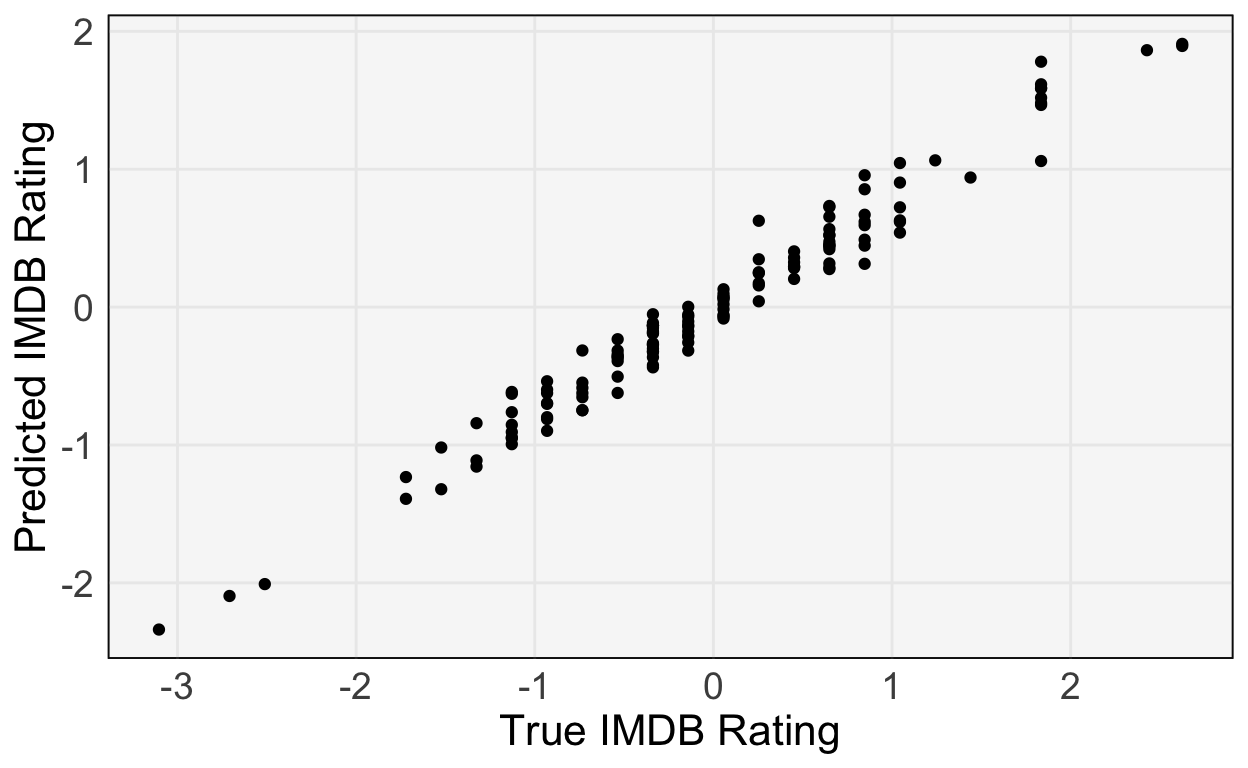
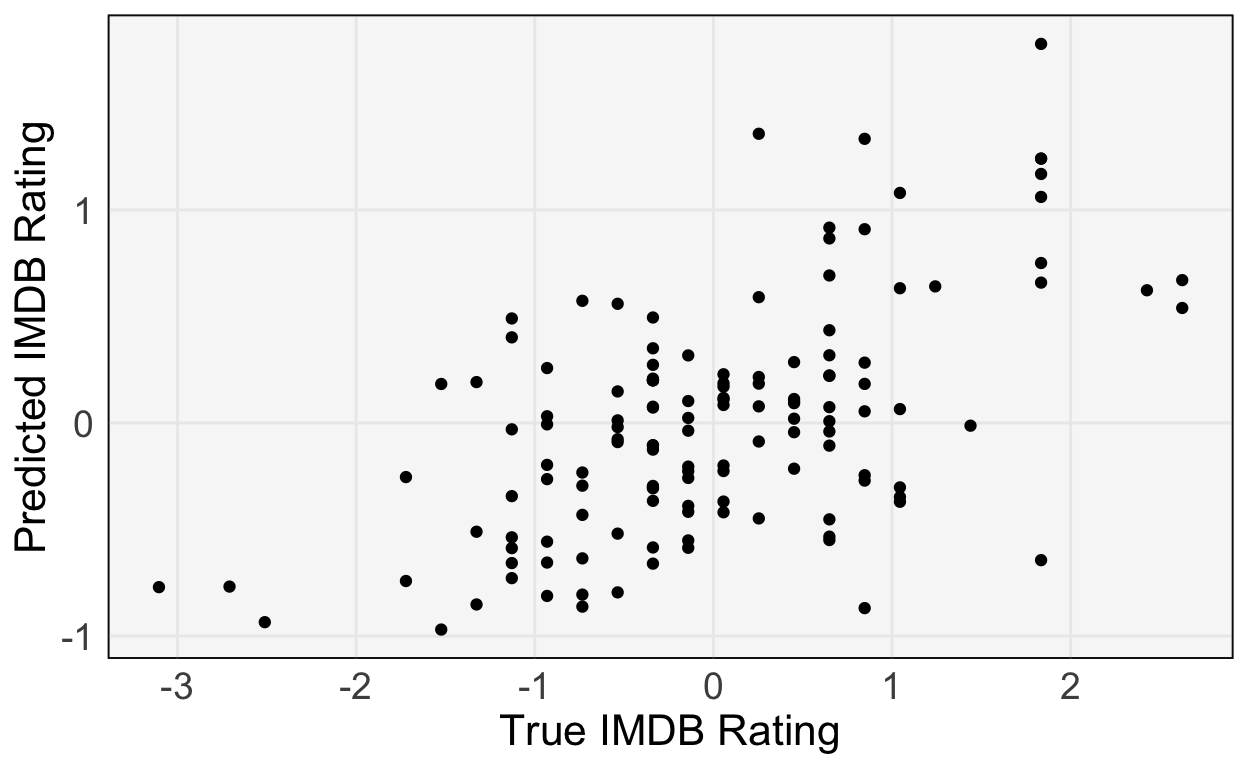
update build

diff --git a/docs/posts/welcome/index.html b/docs/posts/welcome/index.html
@@ -114,7 +114,7 @@ code span.wa { color: #5e5e5e; font-style: italic; } /* Warning */
 <!--/radix_placeholder_rmarkdown_metadata-->
   
   <script type="text/json" id="radix-resource-manifest">
-  {"type":"character","attributes":{},"value":["figures/class-1d.ai","figures/class-1d.png","figures/class-2d.ai","figures/class-2d.png","figures/curve-1d.ai","figures/curve-1d.png","figures/curve-2d.ai","figures/curve-2d.png","figures/decision-tree-stump-2d.ai","figures/decision-tree-stump-2d.png","figures/decision-tree-stump.ai","figures/decision-tree-stump.png","figures/decision-tree-traffic.ai","figures/decision-tree-traffic.png","figures/linear-1d-sparse.ai","figures/linear-1d-sparse.png","figures/linear-1d.ai","figures/linear-1d.png","figures/linear-2d.ai","figures/linear-2d.png","figures/logistic-2d-arrow.png","figures/logistic-2d-sparse.ai","figures/logistic-2d-sparse.png","figures/logistic-2d.ai","figures/logistic-2d.png","figures/logx.png","figures/lymphstatus.txt","figures/methods-relationships.ai","figures/methods-relationships.png","figures/need-to-rescale.ai","figures/penguin-features.png","welcome_files/anchor-4.2.2/anchor.min.js","welcome_files/bowser-1.9.3/bowser.min.js","welcome_files/distill-2.2.21/template.v2.js","welcome_files/figure-html5/unnamed-chunk-101-1.png","welcome_files/figure-html5/unnamed-chunk-106-1.png","welcome_files/figure-html5/unnamed-chunk-15-1.png","welcome_files/figure-html5/unnamed-chunk-17-1.png","welcome_files/figure-html5/unnamed-chunk-22-1.png","welcome_files/figure-html5/unnamed-chunk-27-1.png","welcome_files/figure-html5/unnamed-chunk-94-1.png","welcome_files/figure-html5/unnamed-chunk-96-1.png","welcome_files/header-attrs-2.8/header-attrs.js","welcome_files/jquery-1.11.3/jquery.min.js","welcome_files/popper-2.6.0/popper.min.js","welcome_files/tippy-6.2.7/tippy-bundle.umd.min.js","welcome_files/tippy-6.2.7/tippy-light-border.css","welcome_files/tippy-6.2.7/tippy.css","welcome_files/tippy-6.2.7/tippy.umd.min.js","welcome_files/webcomponents-2.0.0/webcomponents.js"]}
+  {"type":"character","attributes":{},"value":["figures/class-1d.ai","figures/class-1d.png","figures/class-2d.ai","figures/class-2d.png","figures/curve-1d.ai","figures/curve-1d.png","figures/curve-2d.ai","figures/curve-2d.png","figures/decision-tree-stump-2d.ai","figures/decision-tree-stump-2d.png","figures/decision-tree-stump.ai","figures/decision-tree-stump.png","figures/decision-tree-traffic.ai","figures/decision-tree-traffic.png","figures/linear-1d-sparse.ai","figures/linear-1d-sparse.png","figures/linear-1d.ai","figures/linear-1d.png","figures/linear-2d.ai","figures/linear-2d.png","figures/logistic-2d-arrow.png","figures/logistic-2d-sparse.ai","figures/logistic-2d-sparse.png","figures/logistic-2d.ai","figures/logistic-2d.png","figures/logx.png","figures/methods-relationships.ai","figures/methods-relationships.png","figures/need-to-rescale.ai","figures/penguin-features.png","welcome_files/anchor-4.2.2/anchor.min.js","welcome_files/bowser-1.9.3/bowser.min.js","welcome_files/distill-2.2.21/template.v2.js","welcome_files/figure-html5/unnamed-chunk-101-1.png","welcome_files/figure-html5/unnamed-chunk-106-1.png","welcome_files/figure-html5/unnamed-chunk-15-1.png","welcome_files/figure-html5/unnamed-chunk-17-1.png","welcome_files/figure-html5/unnamed-chunk-22-1.png","welcome_files/figure-html5/unnamed-chunk-27-1.png","welcome_files/figure-html5/unnamed-chunk-94-1.png","welcome_files/figure-html5/unnamed-chunk-96-1.png","welcome_files/header-attrs-2.8/header-attrs.js","welcome_files/jquery-1.11.3/jquery.min.js","welcome_files/popper-2.6.0/popper.min.js","welcome_files/tippy-6.2.7/tippy-bundle.umd.min.js","welcome_files/tippy-6.2.7/tippy-light-border.css","welcome_files/tippy-6.2.7/tippy.css","welcome_files/tippy-6.2.7/tippy.umd.min.js","welcome_files/webcomponents-2.0.0/webcomponents.js"]}
   </script>
   <!--radix_placeholder_navigation_in_header-->
 <meta name="distill:offset" content="../.."/>
@@ -2243,10 +2243,10 @@ f_{b}\left(x\right) = \frac{1}{1 + \text{exp}\left(x^{T}b\right)}
 <p>We’ll predict <code>species</code> using just <code>bill</code> length and depth. First, let’s make a plot to see how easy / difficult it will be to create a decision boundary.</p>
 <div class="layout-chunk" data-layout="l-body">
 <div class="sourceCode">
-<pre class="sourceCode r"><code class="sourceCode r"><span class='fu'>ggplot</span><span class='op'>(</span><span class='va'>py</span><span class='op'>$</span><span class='va'>penguins</span><span class='op'>)</span> <span class='op'>+</span>
-  <span class='fu'>geom_point</span><span class='op'>(</span><span class='fu'>aes</span><span class='op'>(</span><span class='va'>bill_length_mm</span>, <span class='va'>bill_depth_mm</span>, col <span class='op'>=</span> <span class='va'>species</span><span class='op'>)</span><span class='op'>)</span> <span class='op'>+</span>
-  <span class='fu'>scale_color_manual</span><span class='op'>(</span>values <span class='op'>=</span> <span class='fu'><a href='https://rdrr.io/r/base/c.html'>c</a></span><span class='op'>(</span><span class='st'>"#3DD9BC"</span>, <span class='st'>"#6DA671"</span>, <span class='st'>"#F285D5"</span><span class='op'>)</span><span class='op'>)</span> <span class='op'>+</span>
-  <span class='fu'>labs</span><span class='op'>(</span>x <span class='op'>=</span> <span class='st'>"Bill Length"</span>, y <span class='op'>=</span> <span class='st'>"Bill Depth"</span><span class='op'>)</span>
+<pre class="sourceCode r"><code class="sourceCode r"><span class='fu'><a href='https://ggplot2.tidyverse.org/reference/ggplot.html'>ggplot</a></span><span class='op'>(</span><span class='va'>py</span><span class='op'>$</span><span class='va'>penguins</span><span class='op'>)</span> <span class='op'>+</span>
+  <span class='fu'><a href='https://ggplot2.tidyverse.org/reference/geom_point.html'>geom_point</a></span><span class='op'>(</span><span class='fu'><a href='https://ggplot2.tidyverse.org/reference/aes.html'>aes</a></span><span class='op'>(</span><span class='va'>bill_length_mm</span>, <span class='va'>bill_depth_mm</span>, col <span class='op'>=</span> <span class='va'>species</span><span class='op'>)</span><span class='op'>)</span> <span class='op'>+</span>
+  <span class='fu'><a href='https://ggplot2.tidyverse.org/reference/scale_manual.html'>scale_color_manual</a></span><span class='op'>(</span>values <span class='op'>=</span> <span class='fu'><a href='https://rdrr.io/r/base/c.html'>c</a></span><span class='op'>(</span><span class='st'>"#3DD9BC"</span>, <span class='st'>"#6DA671"</span>, <span class='st'>"#F285D5"</span><span class='op'>)</span><span class='op'>)</span> <span class='op'>+</span>
+  <span class='fu'><a href='https://ggplot2.tidyverse.org/reference/labs.html'>labs</a></span><span class='op'>(</span>x <span class='op'>=</span> <span class='st'>"Bill Length"</span>, y <span class='op'>=</span> <span class='st'>"Bill Depth"</span><span class='op'>)</span>
 </code></pre>
 </div>
 <p><img src="welcome_files/figure-html5/unnamed-chunk-15-1.png" width="500" style="display: block; margin: auto;" /></p>
@@ -2265,11 +2265,11 @@ f_{b}\left(x\right) = \frac{1}{1 + \text{exp}\left(x^{T}b\right)}
 <p>The plot below compares the predicted class (left, middle, and right panels) with the true class (color). We get most of the samples correct, but have a few missclassifications near the boundaries.</p>
 <div class="layout-chunk" data-layout="l-body">
 <div class="sourceCode">
-<pre class="sourceCode r"><code class="sourceCode r"><span class='fu'>ggplot</span><span class='op'>(</span><span class='va'>py</span><span class='op'>$</span><span class='va'>penguins</span><span class='op'>)</span> <span class='op'>+</span>
-  <span class='fu'>geom_point</span><span class='op'>(</span><span class='fu'>aes</span><span class='op'>(</span><span class='va'>bill_length_mm</span>, <span class='va'>bill_depth_mm</span>, col <span class='op'>=</span> <span class='va'>species</span><span class='op'>)</span><span class='op'>)</span> <span class='op'>+</span>
-  <span class='fu'>scale_color_manual</span><span class='op'>(</span>values <span class='op'>=</span> <span class='fu'><a href='https://rdrr.io/r/base/c.html'>c</a></span><span class='op'>(</span><span class='st'>"#3DD9BC"</span>, <span class='st'>"#6DA671"</span>, <span class='st'>"#F285D5"</span><span class='op'>)</span><span class='op'>)</span> <span class='op'>+</span>
-  <span class='fu'>labs</span><span class='op'>(</span>x <span class='op'>=</span> <span class='st'>"Bill Length"</span>, y <span class='op'>=</span> <span class='st'>"Bill Depth"</span><span class='op'>)</span> <span class='op'>+</span>
-  <span class='fu'>facet_wrap</span><span class='op'>(</span><span class='op'>~</span> <span class='va'>y_hat</span><span class='op'>)</span>
+<pre class="sourceCode r"><code class="sourceCode r"><span class='fu'><a href='https://ggplot2.tidyverse.org/reference/ggplot.html'>ggplot</a></span><span class='op'>(</span><span class='va'>py</span><span class='op'>$</span><span class='va'>penguins</span><span class='op'>)</span> <span class='op'>+</span>
+  <span class='fu'><a href='https://ggplot2.tidyverse.org/reference/geom_point.html'>geom_point</a></span><span class='op'>(</span><span class='fu'><a href='https://ggplot2.tidyverse.org/reference/aes.html'>aes</a></span><span class='op'>(</span><span class='va'>bill_length_mm</span>, <span class='va'>bill_depth_mm</span>, col <span class='op'>=</span> <span class='va'>species</span><span class='op'>)</span><span class='op'>)</span> <span class='op'>+</span>
+  <span class='fu'><a href='https://ggplot2.tidyverse.org/reference/scale_manual.html'>scale_color_manual</a></span><span class='op'>(</span>values <span class='op'>=</span> <span class='fu'><a href='https://rdrr.io/r/base/c.html'>c</a></span><span class='op'>(</span><span class='st'>"#3DD9BC"</span>, <span class='st'>"#6DA671"</span>, <span class='st'>"#F285D5"</span><span class='op'>)</span><span class='op'>)</span> <span class='op'>+</span>
+  <span class='fu'><a href='https://ggplot2.tidyverse.org/reference/labs.html'>labs</a></span><span class='op'>(</span>x <span class='op'>=</span> <span class='st'>"Bill Length"</span>, y <span class='op'>=</span> <span class='st'>"Bill Depth"</span><span class='op'>)</span> <span class='op'>+</span>
+  <span class='fu'><a href='https://ggplot2.tidyverse.org/reference/facet_wrap.html'>facet_wrap</a></span><span class='op'>(</span><span class='op'>~</span> <span class='va'>y_hat</span><span class='op'>)</span>
 </code></pre>
 </div>
 <p><img src="welcome_files/figure-html5/unnamed-chunk-17-1.png" width="500" style="display: block; margin: auto;" /></p>
@@ -2304,7 +2304,7 @@ f_{b}\left(x\right) = b_0 + b_1 x_1 + \dots + b_{D}x_{D} := b^{T}x,
 4       1        6     0  ...              0               0          7.8
 
 [5 rows x 31 columns]</code></pre>
-<div class="sourceCode" id="cb16"><pre class="sourceCode python"><code class="sourceCode python"><span id="cb16-1"><a href="#cb16-1" aria-hidden="true" tabindex="-1"></a>X, y <span class="op">=</span> office.iloc[:, <span class="dv">2</span>:], office[<span class="st">&quot;imdb_rating&quot;</span>]</span>
+<div class="sourceCode" id="cb16"><pre class="sourceCode python"><code class="sourceCode python"><span id="cb16-1"><a href="#cb16-1" aria-hidden="true" tabindex="-1"></a>X, y <span class="op">=</span> office.iloc[:, <span class="dv">2</span>:<span class="op">-</span><span class="dv">1</span>], office[<span class="st">&quot;imdb_rating&quot;</span>]</span>
 <span id="cb16-2"><a href="#cb16-2" aria-hidden="true" tabindex="-1"></a>y <span class="op">=</span> (y <span class="op">-</span> y.mean()) <span class="op">/</span> y.std() <span class="co"># standardize</span></span></code></pre></div>
 </div>
 <p>The block below fits the Elastic Net model and saves the coefficients <span class="math inline">\(\hat{b}\)</span>. Notice that most of them are 0 – only a few of the actors make a big difference in the rating.</p>
@@ -2316,22 +2316,20 @@ f_{b}\left(x\right) = b_0 + b_1 x_1 + \dots + b_{D}x_{D} := b^{T}x,
 <span id="cb19-2"><a href="#cb19-2" aria-hidden="true" tabindex="-1"></a></span>
 <span id="cb19-3"><a href="#cb19-3" aria-hidden="true" tabindex="-1"></a>beta_hat <span class="op">=</span> model.coef_ <span class="co"># notice the sparsity</span></span>
 <span id="cb19-4"><a href="#cb19-4" aria-hidden="true" tabindex="-1"></a>beta_hat</span></code></pre></div>
-<pre><code>array([ 7.88211572e-05,  2.33206106e-03,  2.28877077e-03,  1.41079800e-03,
-        2.64640670e-03, -7.08191025e-03,  2.17721772e-03,  2.57112106e-03,
-        0.00000000e+00,  9.55794821e-04,  5.41469532e-03,  0.00000000e+00,
-        2.09338040e-03, -0.00000000e+00,  3.15581141e-03,  0.00000000e+00,
-        0.00000000e+00,  0.00000000e+00,  0.00000000e+00, -0.00000000e+00,
-        0.00000000e+00,  0.00000000e+00,  0.00000000e+00, -0.00000000e+00,
-       -0.00000000e+00, -0.00000000e+00,  0.00000000e+00,  0.00000000e+00,
-        1.34005056e+00])</code></pre>
+<pre><code>array([ 0.00116889,  0.00618263,  0.00820025,  0.0037306 ,  0.00846656,
+       -0.02521656,  0.00947178,  0.00793831,  0.00140553,  0.00312614,
+        0.01993542,  0.00238557,  0.00883436, -0.00194228,  0.01054646,
+        0.        ,  0.18606752,  0.        ,  0.        , -0.        ,
+        0.        ,  0.        ,  0.        , -0.        , -0.        ,
+       -0.        ,  0.        ,  0.        ])</code></pre>
 </div>
-<p>We can confirm that the training error is quite good, though we will discuss later how to guard against potential overfitting.</p>
+<p>We can confirm that the predictions are correlated relatively well with the truth.</p>
 <div class="layout-chunk" data-layout="l-body">
 <div class="sourceCode">
 <pre class="sourceCode r"><code class="sourceCode r"><span class='va'>office</span> <span class='op'>&lt;-</span> <span class='fu'><a href='https://rdrr.io/r/base/data.frame.html'>data.frame</a></span><span class='op'>(</span><span class='va'>py</span><span class='op'>$</span><span class='va'>X</span>, y <span class='op'>=</span> <span class='va'>py</span><span class='op'>$</span><span class='va'>y</span>, y_hat <span class='op'>=</span> <span class='va'>py</span><span class='op'>$</span><span class='va'>y_hat</span><span class='op'>)</span>
-<span class='fu'>ggplot</span><span class='op'>(</span><span class='va'>office</span><span class='op'>)</span> <span class='op'>+</span>
-  <span class='fu'>geom_point</span><span class='op'>(</span><span class='fu'>aes</span><span class='op'>(</span><span class='va'>y</span>, <span class='va'>y_hat</span><span class='op'>)</span><span class='op'>)</span> <span class='op'>+</span>
-  <span class='fu'>labs</span><span class='op'>(</span>x <span class='op'>=</span> <span class='st'>"True IMDB Rating"</span>, y <span class='op'>=</span> <span class='st'>"Predicted IMDB Rating"</span><span class='op'>)</span>
+<span class='fu'><a href='https://ggplot2.tidyverse.org/reference/ggplot.html'>ggplot</a></span><span class='op'>(</span><span class='va'>office</span><span class='op'>)</span> <span class='op'>+</span>
+  <span class='fu'><a href='https://ggplot2.tidyverse.org/reference/geom_point.html'>geom_point</a></span><span class='op'>(</span><span class='fu'><a href='https://ggplot2.tidyverse.org/reference/aes.html'>aes</a></span><span class='op'>(</span><span class='va'>y</span>, <span class='va'>y_hat</span><span class='op'>)</span><span class='op'>)</span> <span class='op'>+</span>
+  <span class='fu'><a href='https://ggplot2.tidyverse.org/reference/labs.html'>labs</a></span><span class='op'>(</span>x <span class='op'>=</span> <span class='st'>"True IMDB Rating"</span>, y <span class='op'>=</span> <span class='st'>"Predicted IMDB Rating"</span><span class='op'>)</span>
 </code></pre>
 </div>
 <p><img src="welcome_files/figure-html5/unnamed-chunk-22-1.png" width="500" style="display: block; margin: auto;" /></p>
@@ -2371,11 +2369,11 @@ f_{b}\left(x\right) = b_0 + b_1 x_1 + \dots + b_{D}x_{D} := b^{T}x,
 <p>We use the same visualization code to check predictions against the truth. The boosting classifier makes no mistakes on the training data.</p>
 <div class="layout-chunk" data-layout="l-body">
 <div class="sourceCode">
-<pre class="sourceCode r"><code class="sourceCode r"><span class='fu'>ggplot</span><span class='op'>(</span><span class='va'>py</span><span class='op'>$</span><span class='va'>penguins</span><span class='op'>)</span> <span class='op'>+</span>
-  <span class='fu'>geom_point</span><span class='op'>(</span><span class='fu'>aes</span><span class='op'>(</span><span class='va'>bill_length_mm</span>, <span class='va'>bill_depth_mm</span>, col <span class='op'>=</span> <span class='va'>species</span><span class='op'>)</span><span class='op'>)</span> <span class='op'>+</span>
-  <span class='fu'>scale_color_manual</span><span class='op'>(</span>values <span class='op'>=</span> <span class='fu'><a href='https://rdrr.io/r/base/c.html'>c</a></span><span class='op'>(</span><span class='st'>"#3DD9BC"</span>, <span class='st'>"#6DA671"</span>, <span class='st'>"#F285D5"</span><span class='op'>)</span><span class='op'>)</span> <span class='op'>+</span>
-  <span class='fu'>labs</span><span class='op'>(</span>x <span class='op'>=</span> <span class='st'>"Bill Length"</span>, y <span class='op'>=</span> <span class='st'>"Bill Depth"</span><span class='op'>)</span> <span class='op'>+</span>
-  <span class='fu'>facet_wrap</span><span class='op'>(</span><span class='op'>~</span> <span class='va'>y_hat</span><span class='op'>)</span>
+<pre class="sourceCode r"><code class="sourceCode r"><span class='fu'><a href='https://ggplot2.tidyverse.org/reference/ggplot.html'>ggplot</a></span><span class='op'>(</span><span class='va'>py</span><span class='op'>$</span><span class='va'>penguins</span><span class='op'>)</span> <span class='op'>+</span>
+  <span class='fu'><a href='https://ggplot2.tidyverse.org/reference/geom_point.html'>geom_point</a></span><span class='op'>(</span><span class='fu'><a href='https://ggplot2.tidyverse.org/reference/aes.html'>aes</a></span><span class='op'>(</span><span class='va'>bill_length_mm</span>, <span class='va'>bill_depth_mm</span>, col <span class='op'>=</span> <span class='va'>species</span><span class='op'>)</span><span class='op'>)</span> <span class='op'>+</span>
+  <span class='fu'><a href='https://ggplot2.tidyverse.org/reference/scale_manual.html'>scale_color_manual</a></span><span class='op'>(</span>values <span class='op'>=</span> <span class='fu'><a href='https://rdrr.io/r/base/c.html'>c</a></span><span class='op'>(</span><span class='st'>"#3DD9BC"</span>, <span class='st'>"#6DA671"</span>, <span class='st'>"#F285D5"</span><span class='op'>)</span><span class='op'>)</span> <span class='op'>+</span>
+  <span class='fu'><a href='https://ggplot2.tidyverse.org/reference/labs.html'>labs</a></span><span class='op'>(</span>x <span class='op'>=</span> <span class='st'>"Bill Length"</span>, y <span class='op'>=</span> <span class='st'>"Bill Depth"</span><span class='op'>)</span> <span class='op'>+</span>
+  <span class='fu'><a href='https://ggplot2.tidyverse.org/reference/facet_wrap.html'>facet_wrap</a></span><span class='op'>(</span><span class='op'>~</span> <span class='va'>y_hat</span><span class='op'>)</span>
 </code></pre>
 </div>
 <p><img src="welcome_files/figure-html5/unnamed-chunk-27-1.png" width="500" style="display: block; margin: auto;" /></p>
